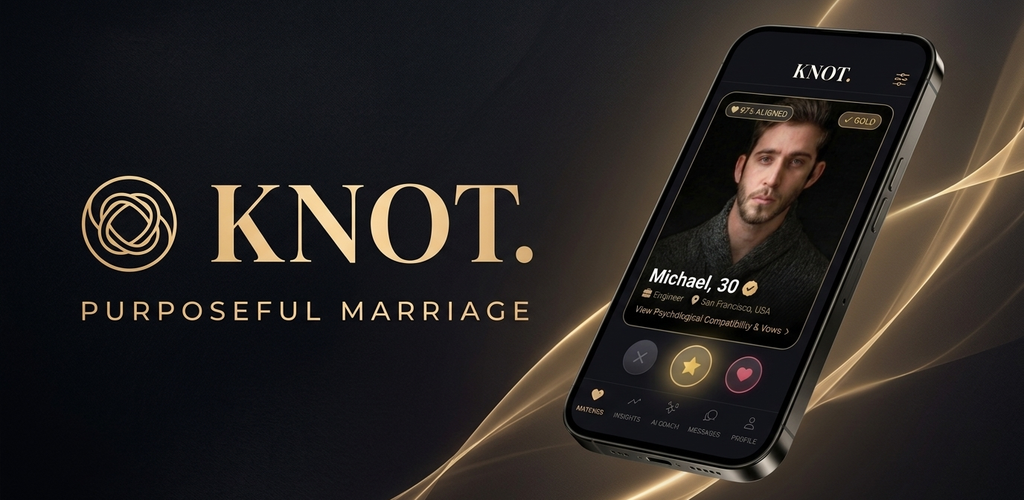
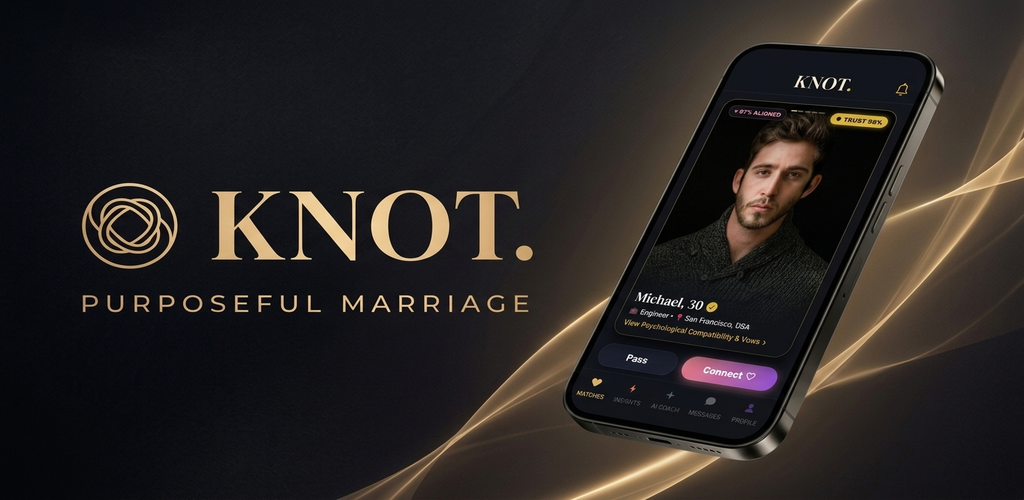
feat(playstore): update 3D phone feature graphic and 2D asset with Michael and two pill buttons (Pass and Connect)

diff --git a/playstore_assets/screenshot_1_discovery.html b/playstore_assets/screenshot_1_discovery.html
@@ -45,9 +45,16 @@
     }
     .brand-logo { font-family: 'Cinzel', serif; font-size: 38px; font-weight: 900; letter-spacing: 0.12em; color: #FFFFFF; display: flex; align-items: center; gap: 8px; }
     .brand-logo .dot { color: #D4AF37; }
+    .appbar-bell { position: relative; display: flex; align-items: center; }
+    .bell-badge {
+      position: absolute; top: -6px; right: -8px; width: 22px; height: 22px;
+      background: #E11D48; border-radius: 50%; color: #FFFFFF;
+      font-size: 13px; font-weight: 800; display: flex; align-items: center; justify-content: center;
+      border: 2px solid #0E131C;
+    }
     
     /* Discovery Card */
-    .discovery-card-wrapper { flex: 1; padding: 24px 32px 16px; display: flex; flex-direction: column; }
+    .discovery-card-wrapper { flex: 1; padding: 24px 32px 14px; display: flex; flex-direction: column; }
     .candidate-card {
       flex: 1; border-radius: 44px; overflow: hidden; position: relative;
       border: 1.5px solid rgba(212, 175, 55, 0.35); box-shadow: 0 25px 50px rgba(0,0,0,0.8);
@@ -58,7 +65,7 @@
     }
     .card-vignette {
       position: absolute; inset: 0;
-      background: linear-gradient(180deg, rgba(0,0,0,0.4) 0%, rgba(0,0,0,0.05) 40%, rgba(0,0,0,0.4) 65%, #0B0E14 98%);
+      background: linear-gradient(180deg, rgba(0,0,0,0.4) 0%, rgba(0,0,0,0.05) 40%, rgba(0,0,0,0.45) 65%, #0B0E14 98%);
     }
     .card-top-row {
       position: absolute; top: 24px; left: 24px; right: 24px; display: flex; align-items: center; justify-content: space-between; z-index: 5;
@@ -69,7 +76,10 @@
       font-size: 20px; font-weight: 800; padding: 8px 20px; border-radius: 9999px;
       display: flex; align-items: center; gap: 8px;
     }
-    .pill-badge.gold { border-color: rgba(212, 175, 55, 0.55); color: #E5C378; }
+    .pill-badge.trust-gold {
+      background: #D4AF37; color: #0B0E14; border: none; font-weight: 900; letter-spacing: 0.05em;
+      box-shadow: 0 4px 15px rgba(212, 175, 55, 0.4);
+    }
     .gallery-dots {
       position: absolute; top: 32px; left: 50%; transform: translateX(-50%); display: flex; gap: 8px; z-index: 5;
     }
@@ -87,21 +97,25 @@
     .candidate-sub { font-size: 24px; color: #E2E8F0; font-weight: 600; display: flex; align-items: center; gap: 10px; margin-bottom: 12px; }
     .candidate-link { font-size: 22px; font-weight: 700; color: #E5C378; display: flex; align-items: center; gap: 8px; }
 
-    /* Action Buttons Row */
-    .action-row { height: 130px; display: flex; align-items: center; justify-content: center; gap: 36px; padding: 10px 0; }
-    .btn-circle {
-      width: 90px; height: 90px; border-radius: 50%; background: #141A24;
-      border: 2px solid rgba(255, 255, 255, 0.15); display: flex; align-items: center; justify-content: center;
-      font-size: 38px; color: #94A3B8; box-shadow: 0 10px 25px rgba(0,0,0,0.5);
+    /* Action Buttons Row: TWO PILL BUTTONS (Pass & Connect) */
+    .action-row {
+      height: 115px; padding: 0 32px; display: flex; align-items: center; justify-content: space-between; gap: 20px;
     }
-    .btn-circle.star {
-      width: 104px; height: 104px; background: #1A1F2C; border: 2.5px solid #D4AF37;
-      color: #D4AF37; box-shadow: 0 0 35px rgba(212, 175, 55, 0.35); font-size: 44px;
+    .btn-pill-pass {
+      flex: 1; height: 80px; border-radius: 9999px;
+      background: #191E2E; border: 1.5px solid #374151;
+      color: #FFFFFF; font-size: 30px; font-weight: 700;
+      display: flex; align-items: center; justify-content: center;
+      cursor: pointer; box-shadow: 0 6px 18px rgba(0,0,0,0.4);
     }
-    .btn-circle.heart {
-      border: 2px solid #E11D48; color: #E11D48; background: #1C1520;
-      box-shadow: 0 0 30px rgba(225, 29, 72, 0.35); font-size: 42px;
+    .btn-pill-connect {
+      flex: 1.35; height: 80px; border-radius: 9999px;
+      background: linear-gradient(90deg, #E27D8D, #9353D3);
+      color: #FFFFFF; font-size: 30px; font-weight: 800;
+      display: flex; align-items: center; justify-content: center; gap: 12px;
+      cursor: pointer; box-shadow: 0 8px 25px rgba(226, 125, 141, 0.45);
     }
+    .btn-pill-connect svg { width: 28px; height: 28px; fill: none; stroke: #FFFFFF; stroke-width: 2.4; }
 
     .phone-bottom-nav {
       height: 110px; background: #0C1017; border-top: 1px solid rgba(255, 255, 255, 0.08);
@@ -129,7 +143,10 @@
 
     <div class="phone-app-bar">
       <div class="brand-logo">KNOT<span class="dot">.</span></div>
-      <div style="color: #E5C378; font-size: 30px;">⚙</div>
+      <div class="appbar-bell">
+        <svg viewBox="0 0 24 24" style="width: 34px; height: 34px; fill: #D4AF37;"><path d="M12 22c1.1 0 2-.9 2-2h-4c0 1.1.9 2 2 2zm6-6v-5c0-3.07-1.63-5.64-4.5-6.32V4c0-.83-.67-1.5-1.5-1.5s-1.5.67-1.5 1.5v.68C7.64 5.36 6 7.92 6 11v5l-2 2v1h16v-1l-2-2zm-2 1H8v-6c0-2.48 1.51-4.5 4-4.5s4 2.02 4 4.5v6z"/></svg>
+        <span class="bell-badge">3</span>
+      </div>
     </div>
 
     <div class="discovery-card-wrapper">
@@ -139,7 +156,10 @@
 
         <div class="card-top-row">
           <div class="pill-badge">♥ 97% ALIGNED</div>
-          <div class="pill-badge gold">✓ GOLD VERIFIED</div>
+          <div class="pill-badge trust-gold">
+            <svg viewBox="0 0 24 24" style="width: 20px; height: 20px; fill: #0B0E14;"><path d="M12 1L3 5v6c0 5.55 3.84 10.74 9 12 5.16-1.26 9-6.45 9-12V5l-9-4z"/></svg>
+            <span>TRUST 98%</span>
+          </div>
         </div>
 
         <div class="gallery-dots">
@@ -161,10 +181,13 @@
       </div>
     </div>
 
+    <!-- Live Two Pill Buttons: Pass and Connect -->
     <div class="action-row">
-      <div class="btn-circle">✕</div>
-      <div class="btn-circle star">★</div>
-      <div class="btn-circle heart">♥</div>
+      <div class="btn-pill-pass">Pass</div>
+      <div class="btn-pill-connect">
+        <span>Connect</span>
+        <svg viewBox="0 0 24 24"><path d="M12 21.35l-1.45-1.32C5.4 15.36 2 12.28 2 8.5 2 5.42 4.42 3 7.5 3c1.74 0 3.41.81 4.5 2.09C13.09 3.81 14.76 3 16.5 3 19.58 3 22 5.42 22 8.5c0 3.78-3.4 6.86-8.55 11.54L12 21.35z"/></svg>
+      </div>
     </div>
 
     <div class="phone-bottom-nav">
